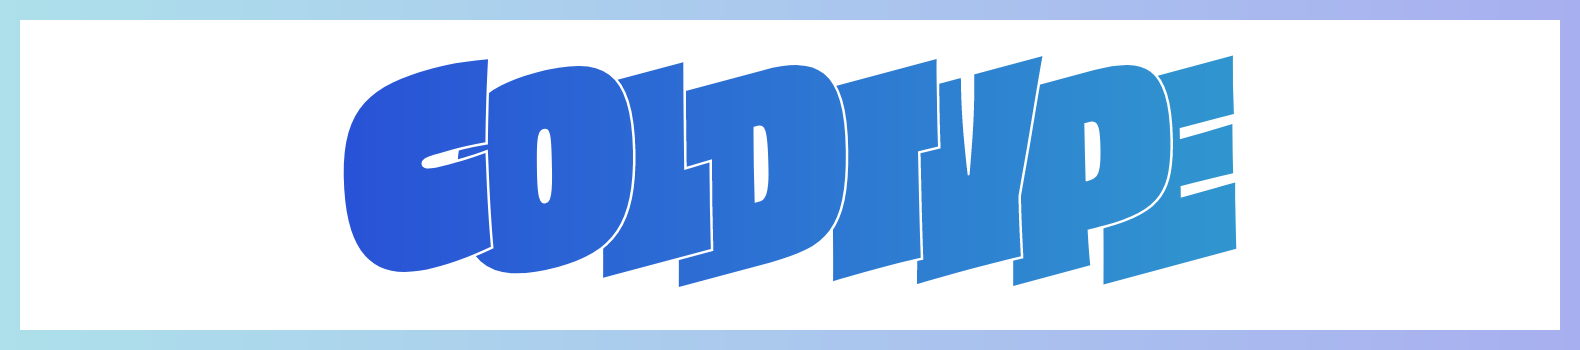
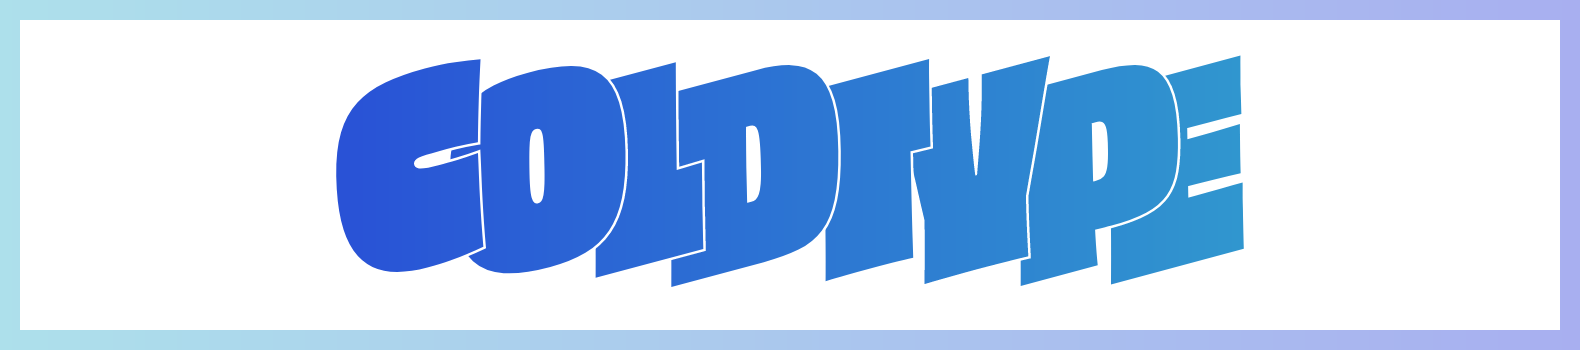
fix syntax in simple.py

diff --git a/examples/simple.py b/examples/simple.py
@@ -15,9 +15,9 @@ def render(r):
         (StyledString("COLDTYPE",
             Style("assets/ColdtypeObviously-VF.ttf", 250,
                 wdth=1, tu=-170, r=1, rotate=15,
-                kp={"P/E":-150, "T/Y":-50}))
+                kp={"P/E":-150, "T/Y":10}))
             .pens()
             .align(r)
             .f(Gradient.Horizontal(r, c1, c2))
-            .understroke(s=1, sw=5))
-            .translate(0, 5)])
+            .understroke(s=1, sw=5)
+            .translate(0, 5))])

diff --git a/coldtype/renderer/__init__.py b/coldtype/renderer/__init__.py
@@ -998,7 +998,7 @@ renderable.package = package_for_docs
     
     def turn_over(self):
         if self.action_waiting:
-            print("WAITING", self.action_waiting)
+            print(">", self.action_waiting)
             #self.on_message({}, self.action_waiting)
             self.on_action(self.action_waiting)
             self.action_waiting = None
